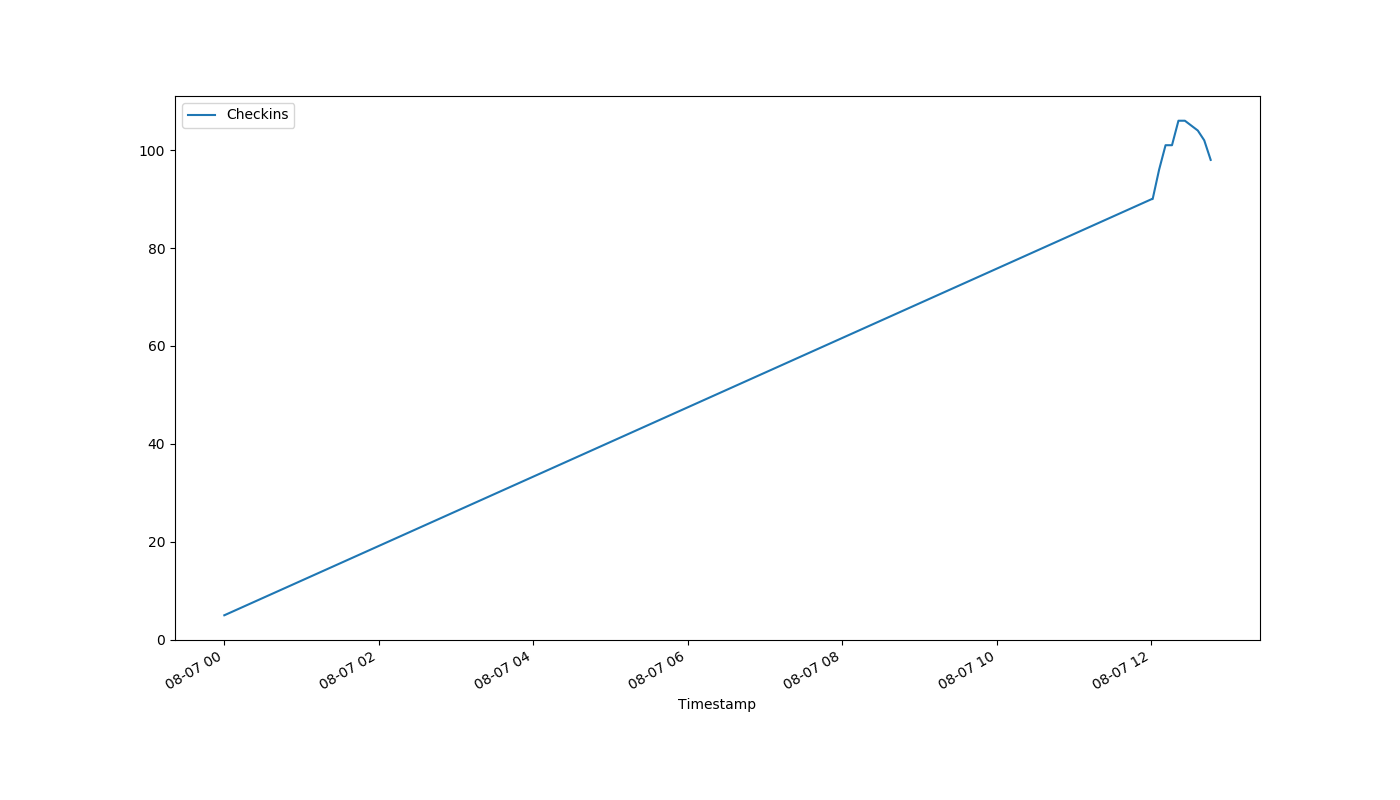
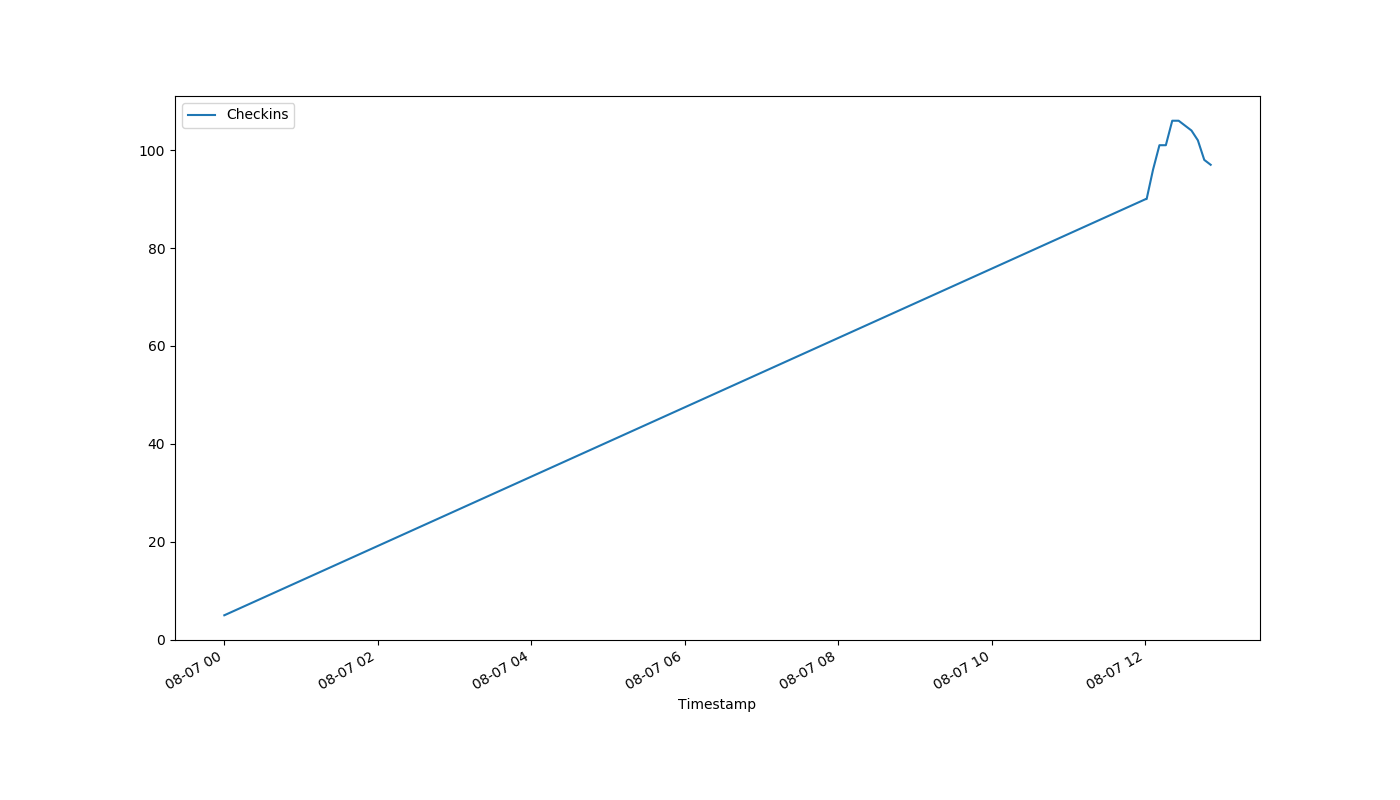
auto-Aug-07-12:52:26

diff --git a/index.html b/index.html
@@ -1,1 +1,1 @@
-<!DOCTYPE html><html><head><meta http-equiv="refresh" content="30"><link rel='stylesheet' href='holmcurrent.css'></head><body><p id='count'>98</p><div id='graph-wrap'><img id='graph' src='holmgraph-Aug-07.png'></div><p id='updated'>Last updated 12:46:11 / 12:46:04</p></body></html>
+<!DOCTYPE html><html><head><meta http-equiv="refresh" content="30"><link rel='stylesheet' href='holmcurrent.css'></head><body><p id='count'>97</p><div id='graph-wrap'><img id='graph' src='holmgraph-Aug-07.png'></div><p id='updated'>Last updated 12:51:11 / 12:51:04</p></body></html>
